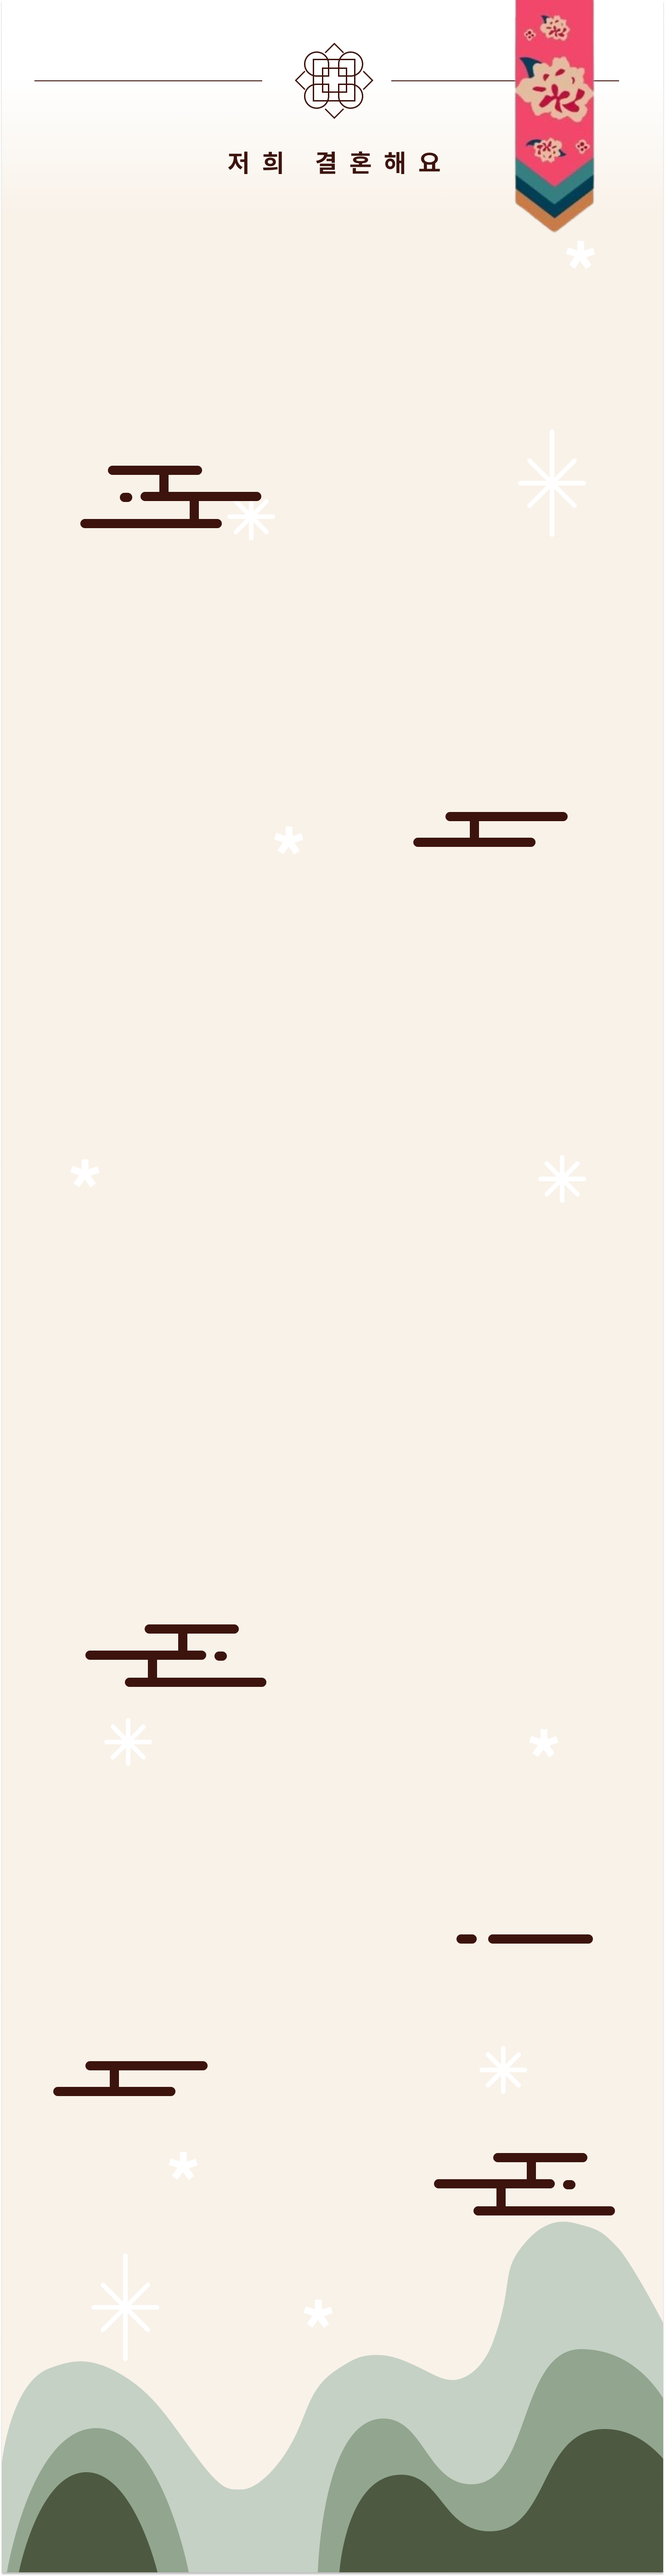
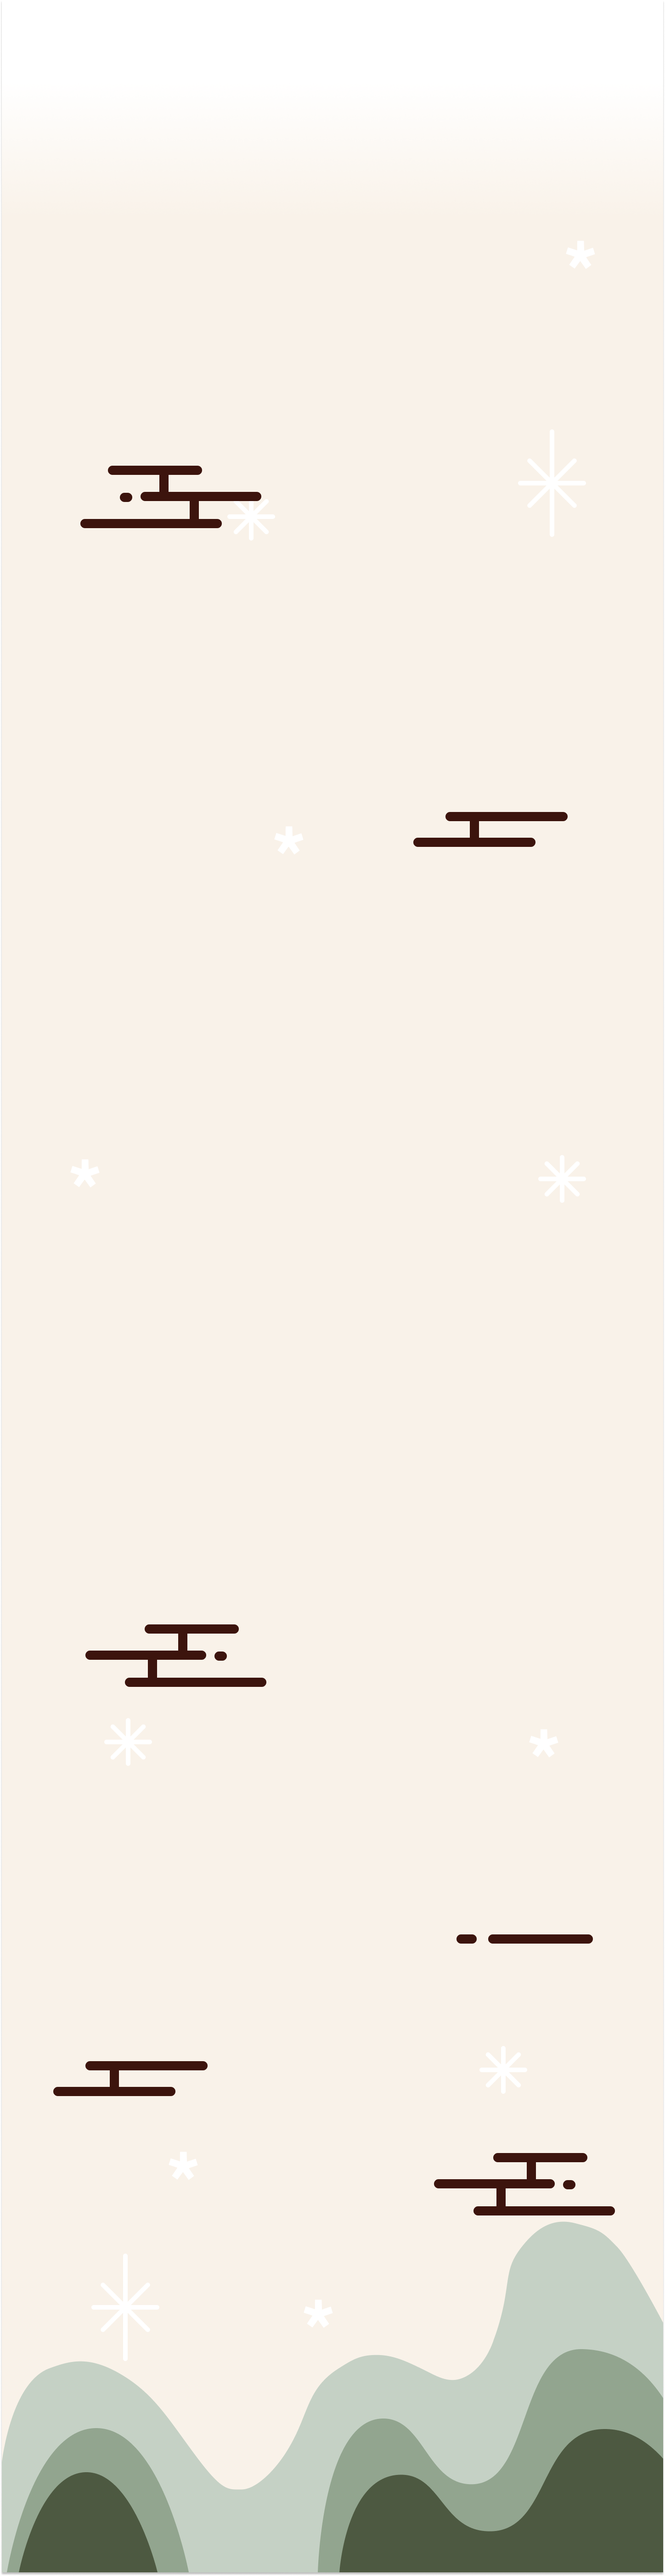
style : 청첩장 배경 이미지 변경 및 헤더 추가

Changed region(s): [[0.7459, 0.0, 0.9012, 0.0936], [0.4662, 0.0, 0.5594, 0.0624]]

diff --git a/src/components/WeddingInvitationPage/TraditionInvitationHeader.jsx b/src/components/WeddingInvitationPage/TraditionInvitationHeader.jsx
@@ -1,0 +1,85 @@
+import React from 'react';
+import styled from 'styled-components';
+import theme from '../../styles/theme';
+
+const TraditionInvitationHeader = () => {
+	return (
+		<TraditionInvitationHeaderWrapper>
+			<TraditionInvitationHeaderBox>
+				<LeftLineBox />
+				<ImageBox />
+				<RightLineWrapper>
+					<RightLineBox />
+					<Image2Box />
+				</RightLineWrapper>
+			</TraditionInvitationHeaderBox>
+			<TraditionInvitationHeaderSpan>저희 결혼해요</TraditionInvitationHeaderSpan>
+		</TraditionInvitationHeaderWrapper>
+	);
+};
+
+export default TraditionInvitationHeader;
+
+// CSS
+const TraditionInvitationHeaderWrapper = styled.div`
+	display: flex;
+	flex-direction: column;
+	align-items: center;
+`;
+
+const TraditionInvitationHeaderBox = styled.div`
+	margin-top: 10rem;
+	display: flex;
+	align-items: center;
+	justify-content: center;
+	gap: 7rem;
+	position: relative;
+`;
+
+const LineBox = styled.div`
+	width: 45rem;
+	height: 0.2rem;
+	background-color: ${theme.colors.traditionalWedding.invitation5};
+`;
+
+const LeftLineBox = styled(LineBox)``;
+
+const RightLineWrapper = styled.div`
+	position: relative; /* Image2Box를 감싸는 컨테이너 */
+	display: flex;
+	align-items: center;
+`;
+
+const RightLineBox = styled(LineBox)``;
+
+const ImageBox = styled.div`
+	background-image: url('/assets/tradition_invitation_header.png');
+	background-size: contain;
+	background-repeat: no-repeat;
+	background-position: center;
+	width: 16rem;
+	height: 16rem;
+`;
+
+const Image2Box = styled.div`
+	background-image: url('/assets/tradition_invitation_header_2.png');
+	background-size: contain;
+	background-repeat: no-repeat;
+	background-position: center;
+	width: 18.7rem;
+	height: 54.2rem;
+	position: absolute;
+	top: -18rem;
+	right: 2rem;
+`;
+
+const TraditionInvitationHeaderSpan = styled.span`
+	margin-top: 7rem;
+	font-weight: ${theme.font.bold.fontWeight};
+	color: ${theme.colors.traditionalWedding.invitation5};
+	font-size: 5.5rem;
+	font-style: normal;
+	line-height: 105.594%;
+	letter-spacing: 2.75rem;
+	text-align: center;
+`;

diff --git a/src/components/WeddingInvitationPage/required-information.jsx b/src/components/WeddingInvitationPage/required-information.jsx
@@ -2,9 +2,7 @@ import React, { useState } from 'react';
 import styled from 'styled-components';
 import theme from '../../styles/theme';
 
-const RequiredInformation = ({
-	invitationData
-}) => {
+const RequiredInformation = ({ invitationData }) => {
 	const [isImageLoading, setIsImageLoading] = useState(true);
 
 	return (
@@ -20,13 +18,23 @@ const RequiredInformation = ({
 					/>
 				</MainImageBox>
 				<RequiredInformationTextBox>
-					<GroomBrideNameSpan>{invitationData.groom} ❤ {invitationData.bride}</GroomBrideNameSpan>
-					<GroomParentsNameText>아버지 {invitationData.groomF} / 어머니 {invitationData.groomM}</GroomParentsNameText>
-					<BrideParentsNameText>아버지 {invitationData.brideF} / 어머니 {invitationData.brideM}</BrideParentsNameText>
+					<GroomBrideNameSpan>
+						{invitationData.groom} ❤ {invitationData.bride}
+					</GroomBrideNameSpan>
+					<GroomParentsNameText>
+						아버지 {invitationData.groomF} / 어머니 {invitationData.groomM}
+					</GroomParentsNameText>
+					<BrideParentsNameText>
+						아버지 {invitationData.brideF} / 어머니 {invitationData.brideM}
+					</BrideParentsNameText>
 					<DateText>일자</DateText>
-					<DateDetailText>{invitationData.date} / {invitationData.time} </DateDetailText>
+					<DateDetailText>
+						{invitationData.date} / {invitationData.time}{' '}
+					</DateDetailText>
 					<LocationText>위치</LocationText>
-					<LocationDetailText>{invitationData.address} {invitationData.extraAddress}</LocationDetailText>
+					<LocationDetailText>
+						{invitationData.address} {invitationData.extraAddress}
+					</LocationDetailText>
 				</RequiredInformationTextBox>
 			</RequiredInformationTextContainer>
 		</RequiredInformationTextWrapper>
@@ -37,7 +45,7 @@ export default RequiredInformation;
 
 // CSS
 const RequiredInformationTextWrapper = styled.div`
-	margin-top: 51.2rem;
+	margin-top: 11.2rem;
 	display: flex;
 	flex-direction: column;
 	align-items: center;

diff --git a/src/pages/WeddingInvitationPage.jsx b/src/pages/WeddingInvitationPage.jsx
@@ -2,6 +2,8 @@ import styled, { css } from 'styled-components';
 import { useEffect, useState } from 'react';
 import { Link, useParams } from 'react-router-dom';
 import theme from '../styles/theme';
+import BasicInvitationHeader from '../components/WeddingInvitationPage/BasicInvitationHeader';
+import TraditionInvitationHeader from '../components/WeddingInvitationPage/TraditionInvitationHeader';
 import RequiredInformation from '../components/WeddingInvitationPage/required-information';
 import Location from '../components/WeddingInvitationPage/location';
 import Gallery from '../components/WeddingInvitationPage/gallery';
@@ -46,6 +48,7 @@ const WeddingInvitationPage = () => {
 		// 기본형 variant="basic"
 		// 전통형 = variant="tradition"
 		<WeddingInvitationWrapper $variant={themeVariant}>
+			{themeVariant === 'basic' ? <BasicInvitationHeader /> : <TraditionInvitationHeader />}
 			<RequiredInformation invitationData={invitationData} />
 			<Location $variant={themeVariant} invitationData={invitationData} />
 			<Gallery $variant={themeVariant} invitationData={invitationData} />
@@ -71,7 +74,7 @@ export default WeddingInvitationPage;
 // CSS
 const WeddingInvitationWrapper = styled.div`
 	background-image: url('/assets/basic.png');
-	background-size: contain;
+	background-size: cover;
 	background-position: center;
 	background-repeat: no-repeat;
 	width: 100%;

diff --git a/src/components/WeddingInvitationPage/BasicInvitationHeader.jsx b/src/components/WeddingInvitationPage/BasicInvitationHeader.jsx
@@ -1,0 +1,29 @@
+import React from 'react';
+import styled from 'styled-components';
+
+const BasicInvitationHeader = () => {
+	return (
+		<BasicInvitationHeaderWrapper>
+			<BasicInvitationHeaderBox />
+		</BasicInvitationHeaderWrapper>
+	);
+};
+
+export default BasicInvitationHeader;
+
+// CSS
+const BasicInvitationHeaderWrapper = styled.div`
+	display: flex;
+	flex-direction: column;
+	align-items: center;
+`;
+
+const BasicInvitationHeaderBox = styled.div`
+	margin-top: 1rem;
+	background-image: url('/assets/basic_invitation_header.png'); /* Vite public 경로 */
+	background-size: contain;
+	background-position: center;
+	background-repeat: no-repeat;
+	width: 44rem;
+	height: 39rem;
+`;
